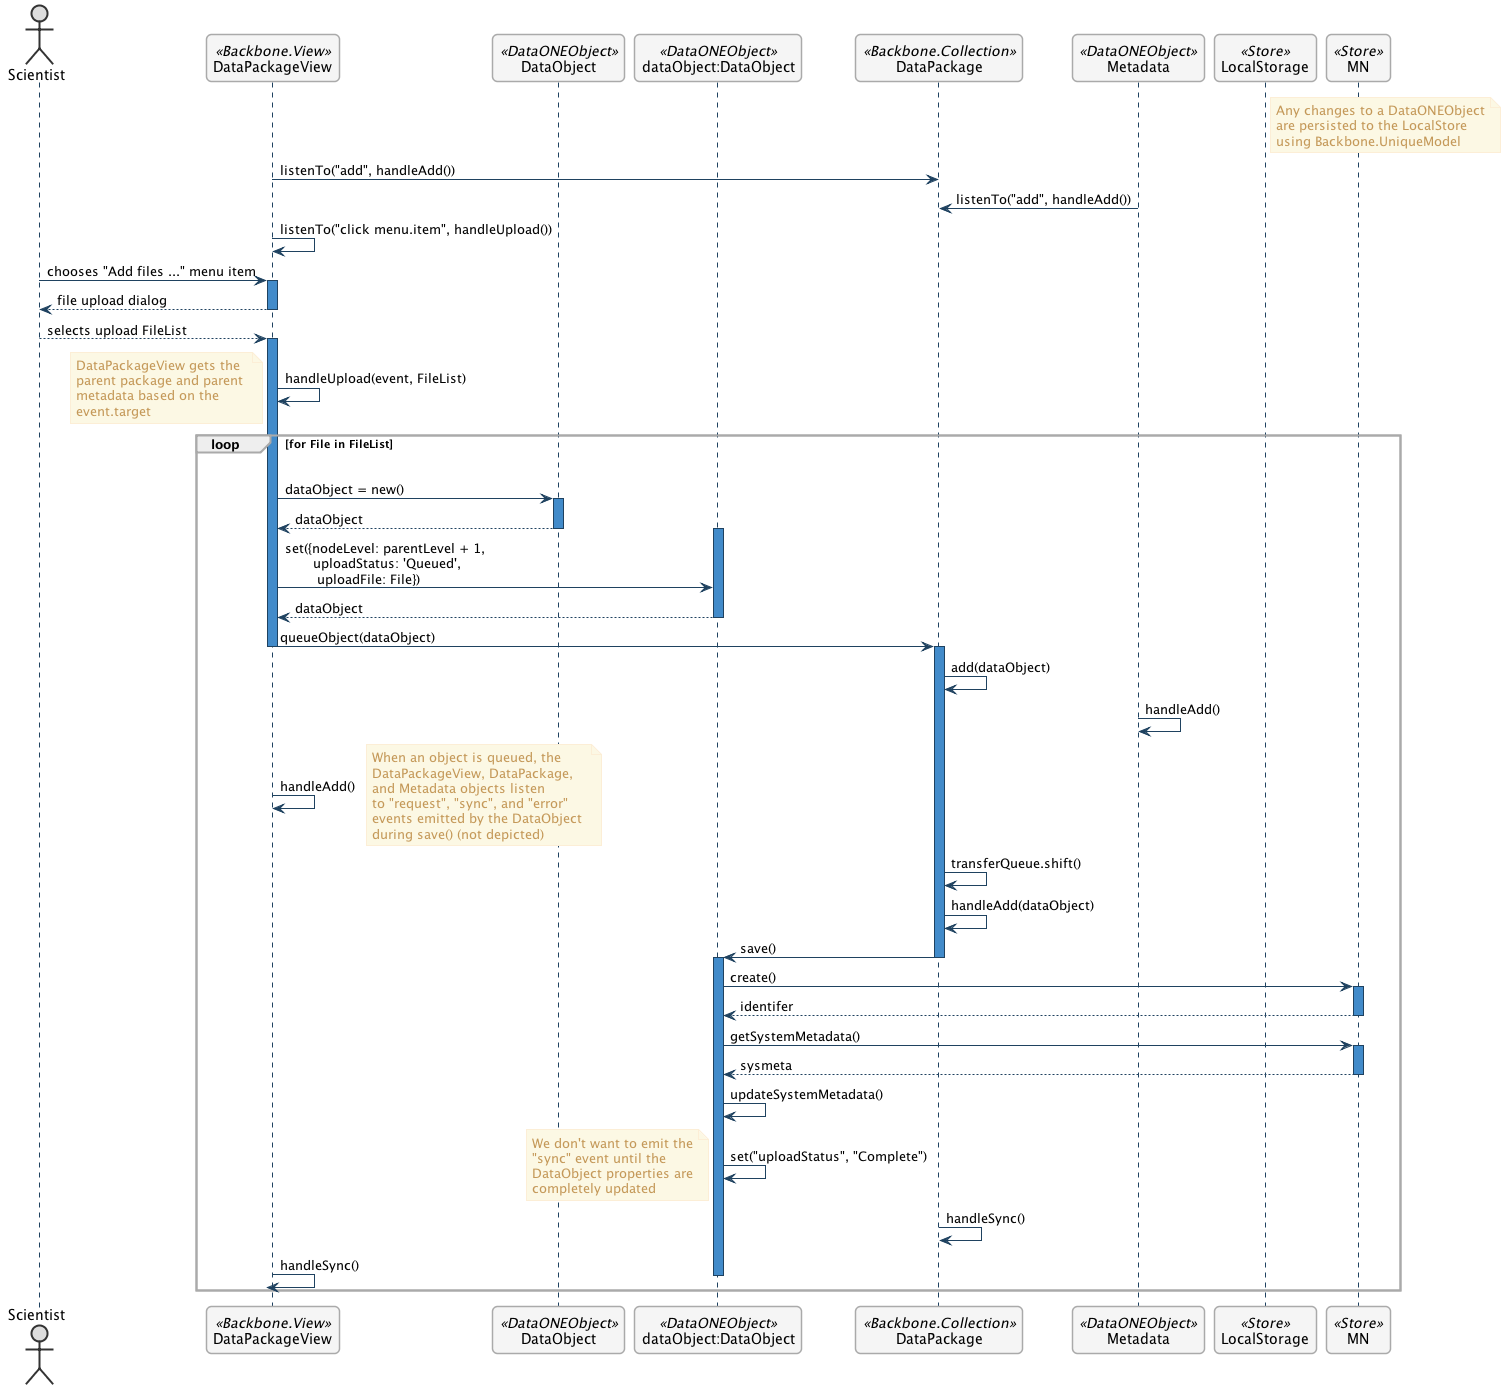
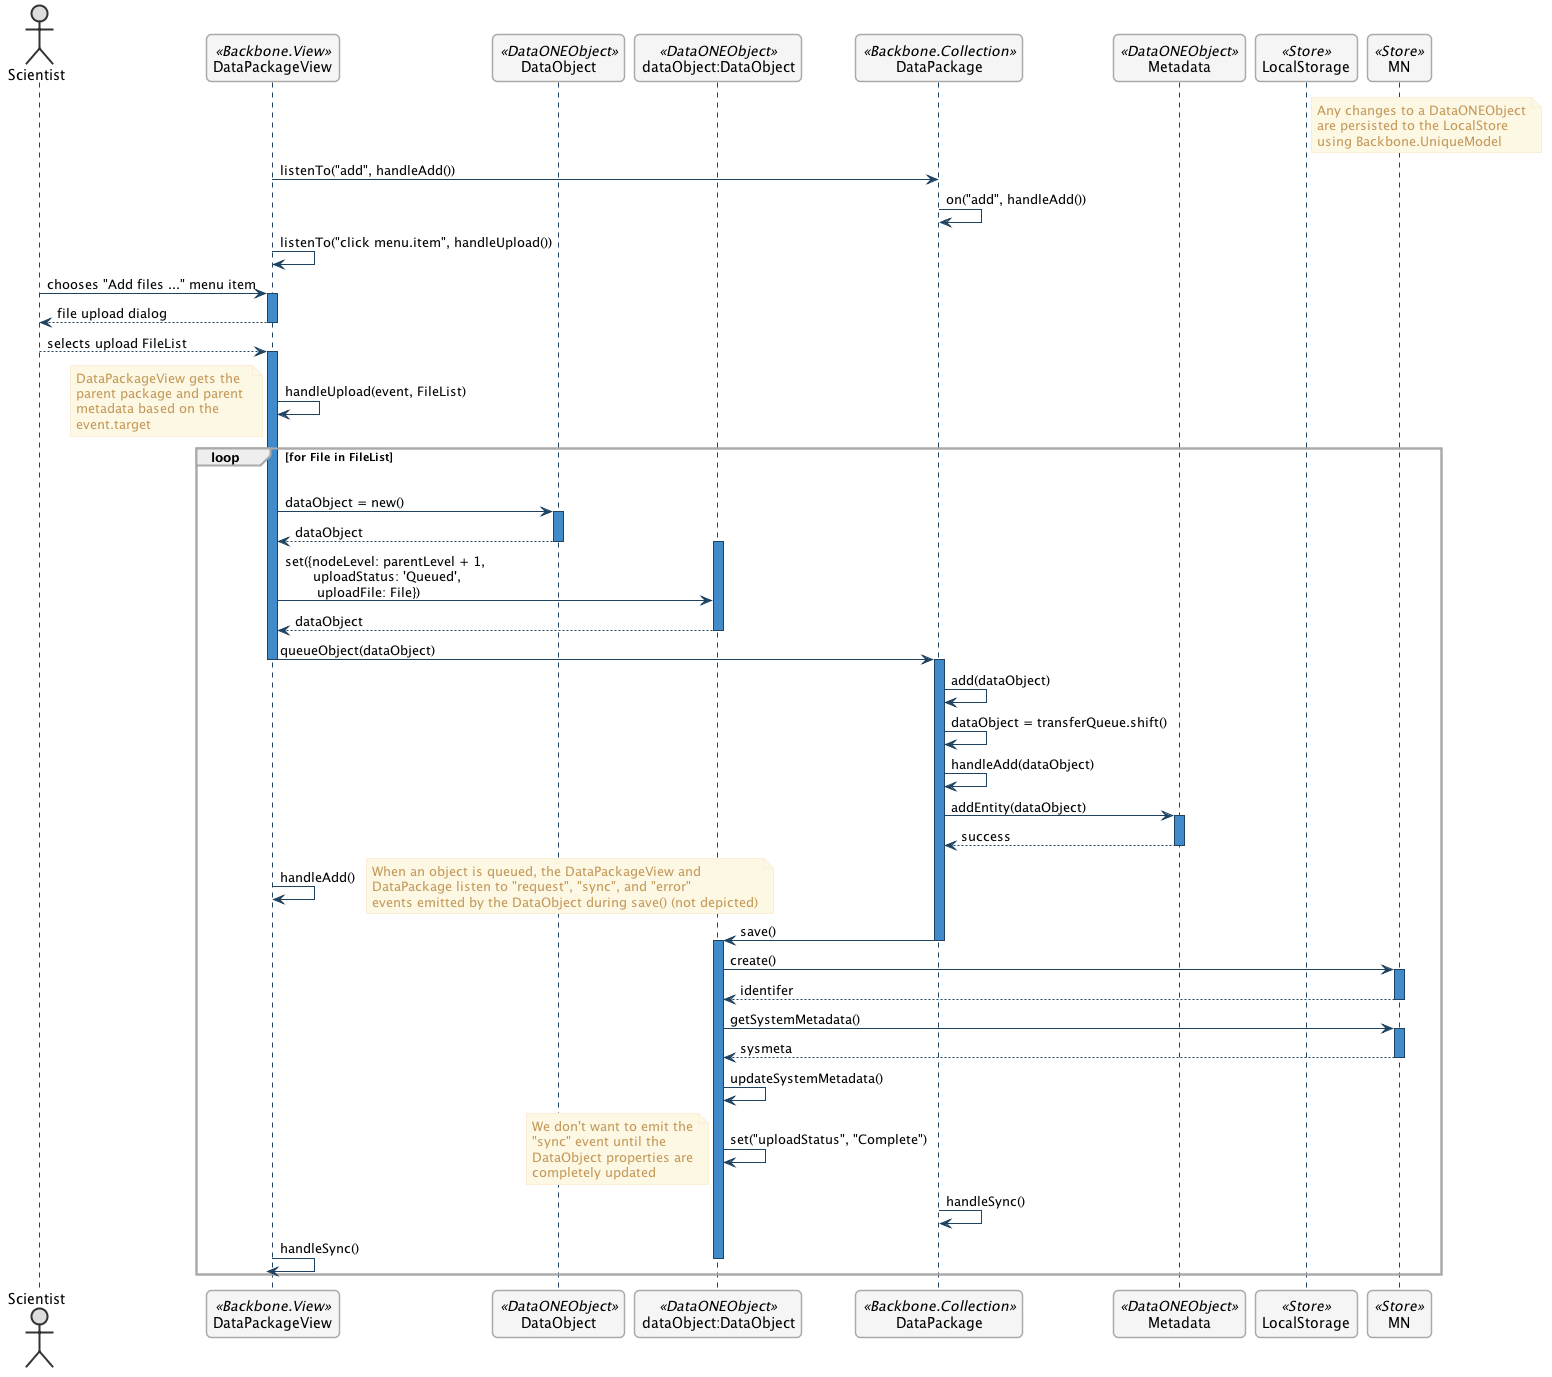
Decouple the DataPackage model and the Metadata model.  The Metadata model no longer listens to events on the DataPackage (stays independent). Rather, the DataPackage model calls either addEntity() or removeEntity() on the Metadata model when the user adds or archives files.
Finish the 'Archive a File' use case sequence diagram.

diff --git a/metacatui/docs/design/editor/use-cases/archive-a-file.rst b/metacatui/docs/design/editor/use-cases/archive-a-file.rst
@@ -18,5 +18,66 @@ Mockup Image
 Technical Sequence Diagram
 --------------------------
 
+.. 
+    @startuml images/archive-a-file-sequence-diagram.png
+
+      !include ../plantuml-styles.txt
+      skinparam SequenceGroupBorderColor #AAAAAA
+      skinparam SequenceGroupBorderThickness #AAAAAA
+
+      actor "Scientist"
+      participant DataPackageView as PackageView <<Backbone.View>>
+      participant ConfirmArchiveView as ConfirmArchiveView  <<ModalView>>
+      participant DataPackage as DataPackage <<Backbone.Collection>>
+      participant Metadata as Metadata <<DataONEObject>>
+      participant DataObject as "dataObject:DataObject" <<DataONEObject>>
+      participant LocalStorage as LocalStore  <<Store>>
+      participant MN as MN  <<Store>>
+
+      PackageView -> DataPackage : listenTo("remove", handleRemove())
+      DataPackage -> DataPackage : on("remove", handleRemove())
+
+      PackageView -> PackageView : listenTo("click menu.item", handleArchive())
+      Scientist -> PackageView : Chooses "Archive ..." menu item
+
+      activate PackageView
+        PackageView -> PackageView : handleArchive()
+        PackageView --> ConfirmArchiveView : render()
+      deactivate PackageView
+        
+      activate ConfirmArchiveView
+        ConfirmArchiveView -> ConfirmArchiveView : listenTo("click #ok", confirmArchive())
+        ConfirmArchiveView -> ConfirmArchiveView : listenTo("click #cancel", confirmArchive())
+        ConfirmArchiveView --> Scientist: Ok? Cancel?
+      deactivate ConfirmArchiveView
+        Scientist -> ConfirmArchiveView : Clicks 'Ok'
+      activate ConfirmArchiveView
+        ConfirmArchiveView -> ConfirmArchiveView : confirmArchive()
+        ConfirmArchiveView -> DataPackage : remove(id)
+      deactivate ConfirmArchiveView
+      
+      activate DataPackage
+      PackageView -> PackageView : handleRemove()
+        DataPackage -> DataPackage : handleRemove(id)
+        DataPackage -> Metadata : removeEntity(id)
+        activate Metadata
+          Metadata --> DataPackage : success
+        deactivate Metadata
+        
+        DataPackage -> DataObject : delete()
+        activate DataObject
+          DataObject -> MN : archive()
+          activate MN
+            MN --> DataObject : identifier
+          deactivate MN
+          DataObject -> DataPackage : success
+        deactivate DataObject
+      deactivate DataPackage
+      
+    @enduml
+
+.. image:: images/archive-a-file-sequence-diagram.png
+
+
 
 

diff --git a/metacatui/docs/design/editor/use-cases/upload-data.rst b/metacatui/docs/design/editor/use-cases/upload-data.rst
@@ -40,7 +40,7 @@ Technical Sequence Diagram
         using Backbone.UniqueModel
       end note
       PackageView -> DataPackage : listenTo("add", handleAdd())
-      Metadata -> DataPackage : listenTo("add", handleAdd())
+      DataPackage -> DataPackage : on("add", handleAdd())
 
       PackageView -> PackageView : listenTo("click menu.item", handleUpload())
       Scientist -> PackageView : chooses "Add files ..." menu item
@@ -78,21 +78,21 @@ Technical Sequence Diagram
                     
           activate DataPackage
             DataPackage -> DataPackage : add(dataObject)
-            Metadata -> Metadata : handleAdd()
+            DataPackage -> DataPackage : dataObject = transferQueue.shift()
+            DataPackage -> DataPackage : handleAdd(dataObject)
+            DataPackage -> Metadata : addEntity(dataObject)
+            activate Metadata
+              Metadata --> DataPackage : success
+            deactivate Metadata
             PackageView -> PackageView : handleAdd()
             
             note right
-              When an object is queued, the 
-              DataPackageView, DataPackage,
-              and Metadata objects listen 
-              to "request", "sync", and "error" 
-              events emitted by the DataObject 
-              during save() (not depicted)
+              When an object is queued, the DataPackageView and 
+              DataPackage listen to "request", "sync", and "error" 
+              events emitted by the DataObject during save() (not depicted)
             end note
             
-          
-            DataPackage -> DataPackage : transferQueue.shift()
-            DataPackage -> DataPackage : handleAdd(dataObject)
+            
             DataPackage -> dataObject : save()
           deactivate DataPackage
           

diff --git a/metacatui/docs/design/editor/editor-design-eml-package.rst b/metacatui/docs/design/editor/editor-design-eml-package.rst
@@ -37,6 +37,8 @@
          + validate() : Boolean
          + parse()  : EML
          + toXML() : String
+         + addEntity() : DataONEObject
+         + removeEntity : String
        }
        
        note left
